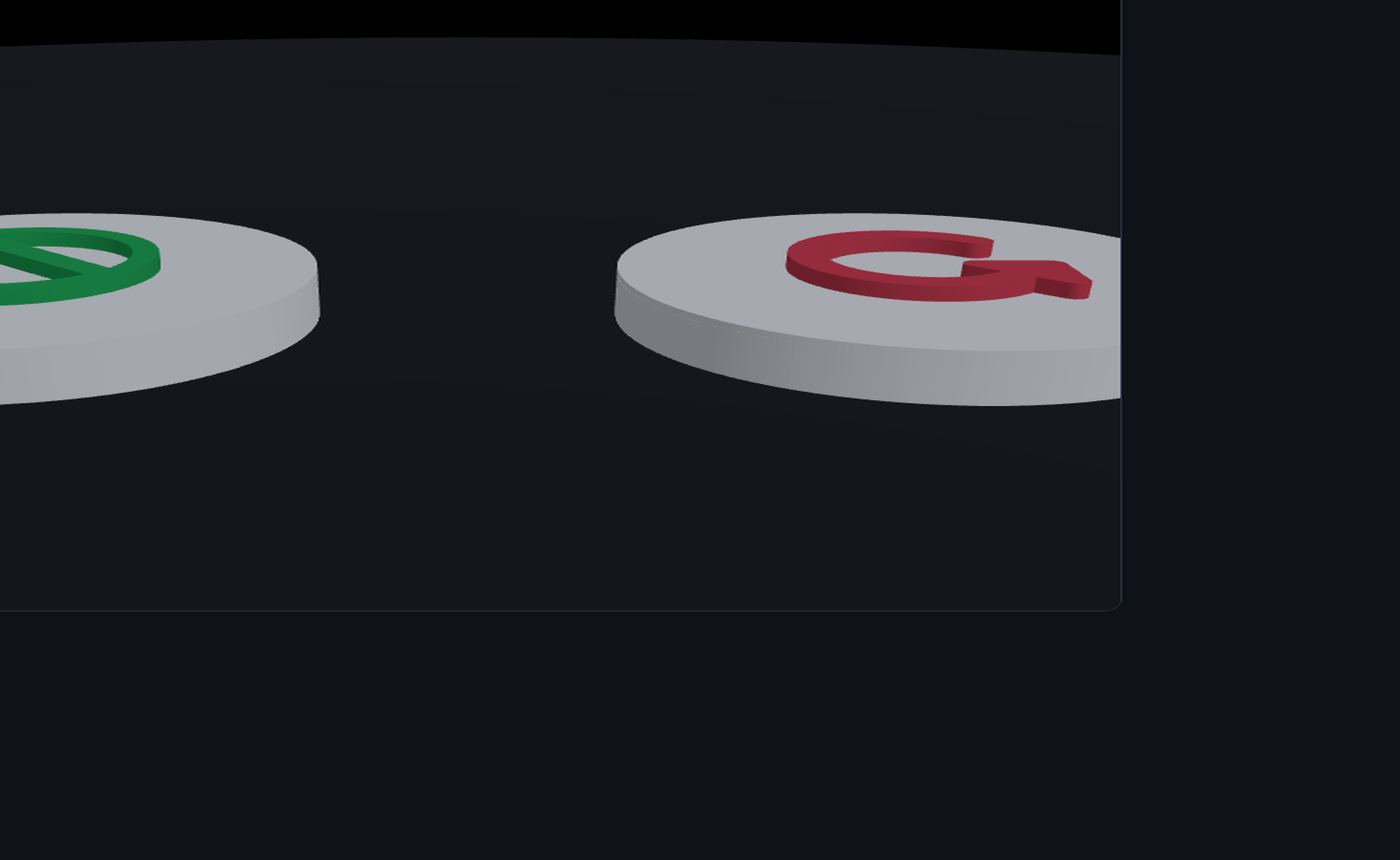
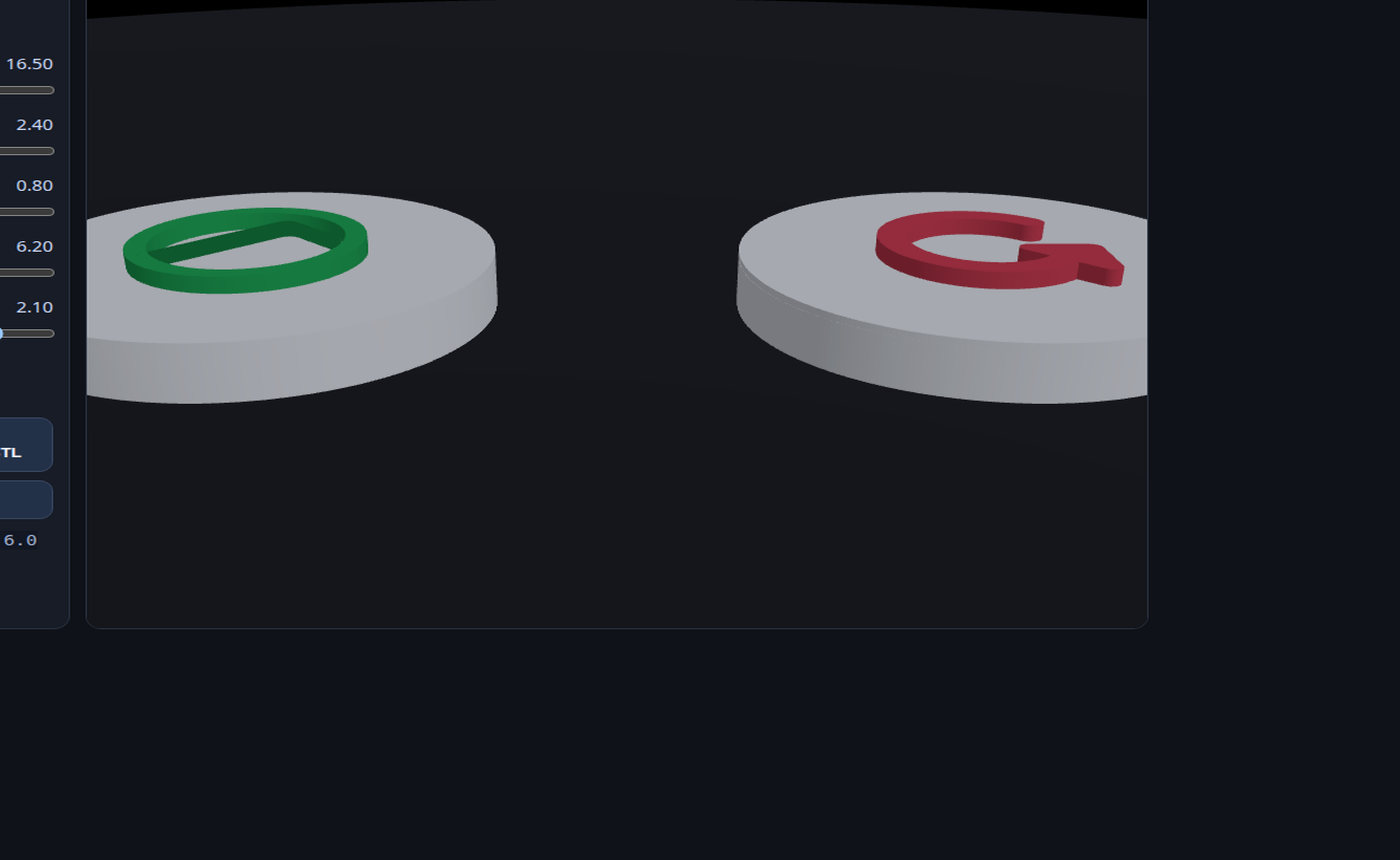
Flip DONE check orientation and refresh preview

Changed region(s): [[0.0, 0.2116, 0.3686, 0.6349], [0.43, 0.2116, 0.8293, 0.4837], [0.0, 0.0, 0.8293, 0.1814]]

diff --git a/web/x1c-marker-customizer/index.html b/web/x1c-marker-customizer/index.html
@@ -260,7 +260,7 @@
     const doneShapes = fontAwesomeShapes(faCheck);
     const progressShapes = fontAwesomeShapes(faRotateRight);
 
-    function extrudeShapes(shapes, height, mat, targetSpan = 10.8) {
+    function extrudeShapes(shapes, height, mat, targetSpan = 10.8, flipX = false) {
       const g = new THREE.ExtrudeGeometry(shapes, {
         depth: height,
         steps: 1,
@@ -276,7 +276,7 @@
       const spanZ = b1.max.z - b1.min.z;
       const span = Math.max(spanX, spanZ) || 1;
       const s = targetSpan / span;
-      g.scale(s, 1, s);
+      g.scale(flipX ? -s : s, 1, s);
 
       g.computeBoundingBox();
       const b2 = g.boundingBox;
@@ -294,7 +294,7 @@
       ring.position.y = p.h - Math.min(0.08, p.iconH * 0.2); // slight overlap to guarantee printable union
       group.add(ring);
 
-      const mark = extrudeShapes(doneShapes, p.iconH, iconMatDone, p.d * 0.38);
+      const mark = extrudeShapes(doneShapes, p.iconH, iconMatDone, p.d * 0.38, true);
       mark.position.y = p.h - Math.min(0.08, p.iconH * 0.2); // slight overlap to guarantee printable union
       group.add(mark);
     }
